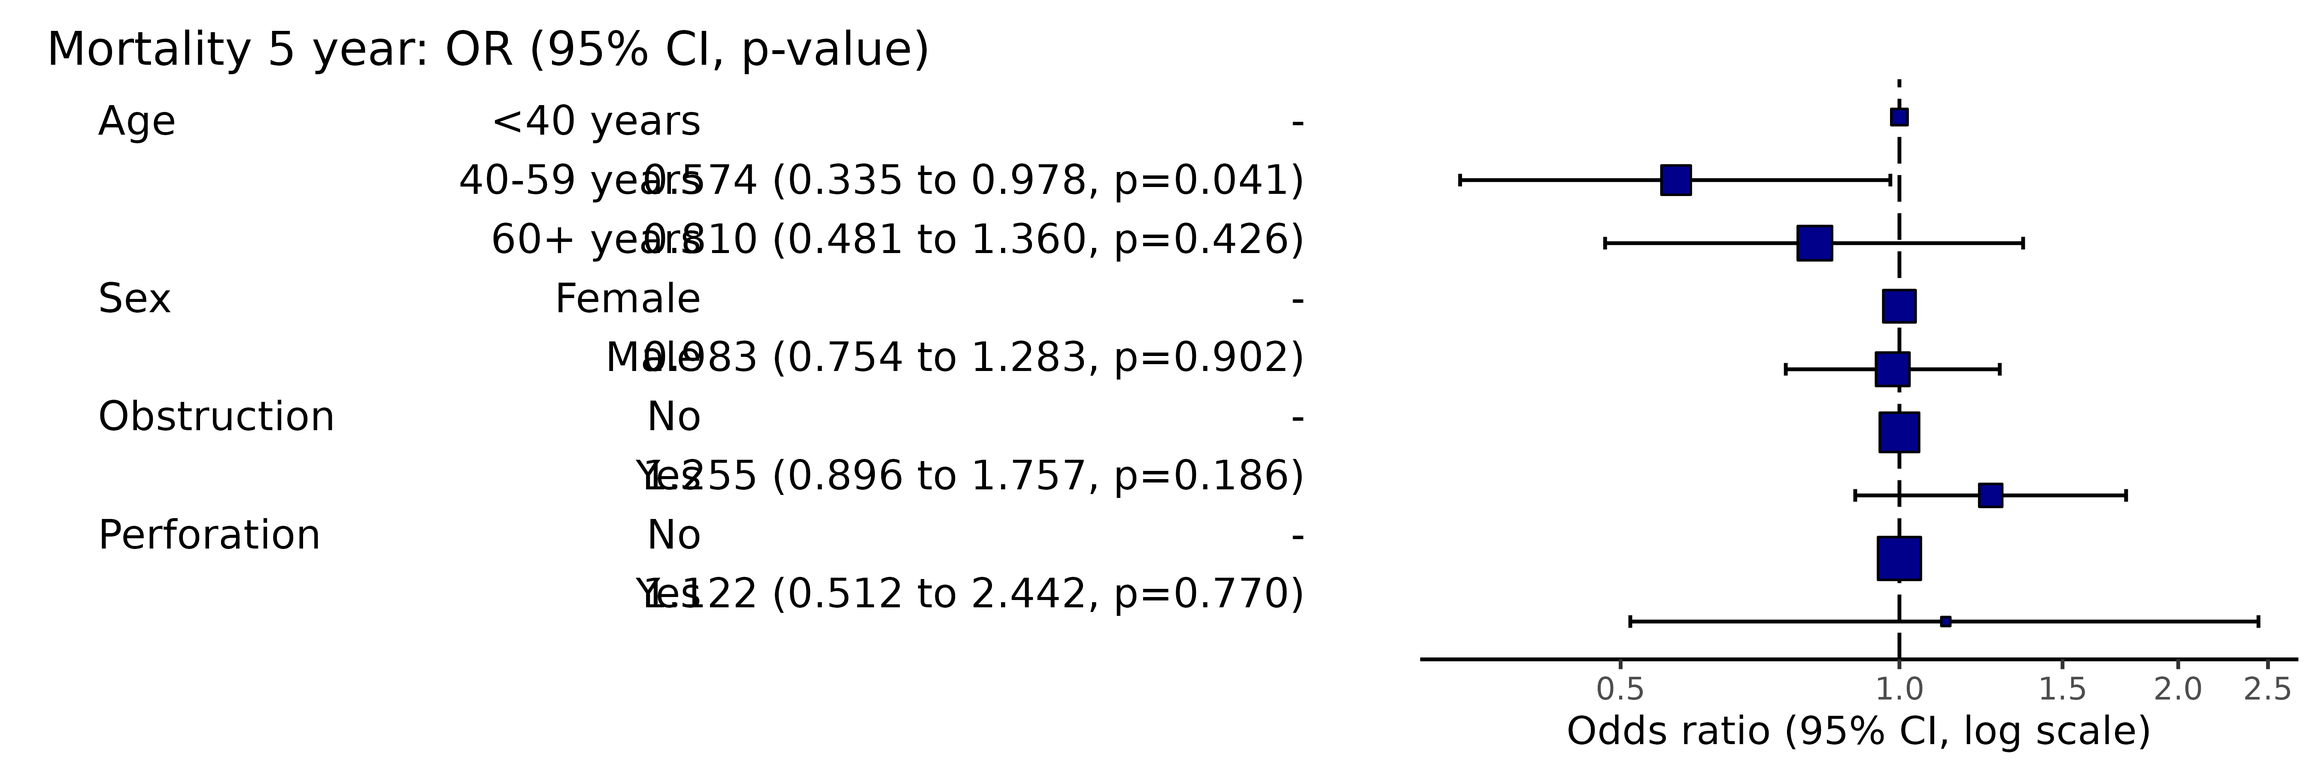
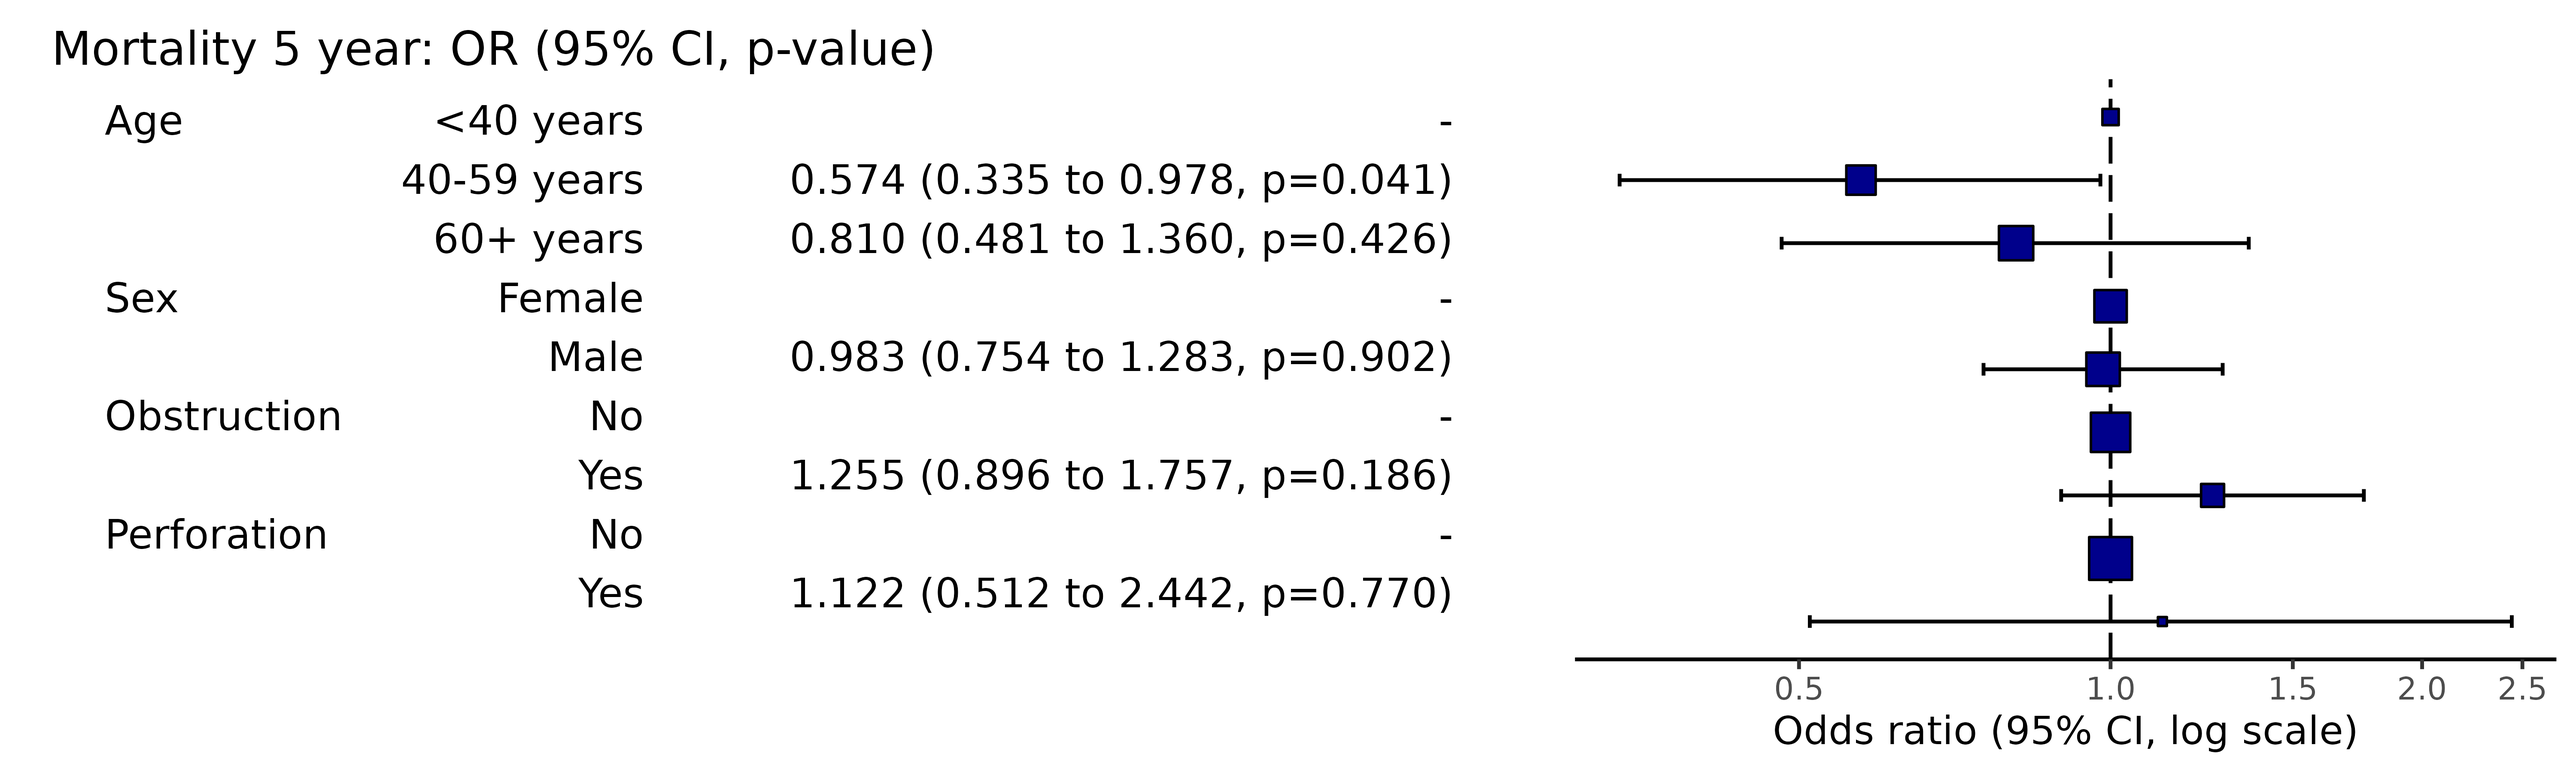
Adjust plot

diff --git a/docs/articles/all_plots_examples.html b/docs/articles/all_plots_examples.html
@@ -409,7 +409,7 @@ to plot it. Pass the model object to the plotting function.</p>
 <span class="op">)</span></code></pre></div>
 <p><img src="all_plots_examples_files/figure-html/unnamed-chunk-6-1.png" width="2700"></p>
 <pre><code><span class="co">#&gt;    user  system elapsed </span>
-<span class="co">#&gt;   0.614   0.012   0.627</span>
+<span class="co">#&gt;   0.603   0.000   0.604</span>
 <span class="co"># Note this example uses fig.height=3, fig.width=9</span></code></pre>
 </div>
 <div class="section level3">
@@ -577,10 +577,10 @@ number of decimal places, confidence interval separator etc.</p>
 <span class="va">dependent</span> <span class="op">=</span> <span class="st">'mort_5yr'</span>
 <span class="va">colon_s</span> <span class="op"><a href="../reference/pipe.html">%&gt;%</a></span>
   <span class="fu"><a href="../reference/or_plot.html">or_plot</a></span><span class="op">(</span><span class="va">dependent</span>, <span class="va">explanatory</span>,
-                digits <span class="op">=</span> <span class="fu"><a href="https://rdrr.io/r/base/c.html" class="external-link">c</a></span><span class="op">(</span><span class="fl">3</span>,<span class="fl">3</span>,<span class="fl">3</span><span class="op">)</span>, confint_sep <span class="op">=</span> <span class="st">" to "</span><span class="op">)</span></code></pre></div>
-<p><img src="all_plots_examples_files/figure-html/unnamed-chunk-17-1.png" width="2700"></p>
+                digits <span class="op">=</span> <span class="fu"><a href="https://rdrr.io/r/base/c.html" class="external-link">c</a></span><span class="op">(</span><span class="fl">3</span>,<span class="fl">3</span>,<span class="fl">3</span><span class="op">)</span>, confint_sep <span class="op">=</span> <span class="st">" to "</span>, column_space <span class="op">=</span> <span class="fu"><a href="https://rdrr.io/r/base/c.html" class="external-link">c</a></span><span class="op">(</span><span class="op">-</span><span class="fl">0.5</span>, <span class="op">-</span><span class="fl">0.1</span>, <span class="fl">0.5</span><span class="op">)</span><span class="op">)</span></code></pre></div>
+<p><img src="all_plots_examples_files/figure-html/unnamed-chunk-17-1.png" width="3000"></p>
 <div class="sourceCode" id="cb32"><pre class="downlit sourceCode r">
-<code class="sourceCode R"><span class="co"># Note this example uses fig.height=3, fig.width=9</span></code></pre></div>
+<code class="sourceCode R"><span class="co"># Note this example uses fig.height=3, fig.width=10</span></code></pre></div>
 </div>
 </div>
 <div class="section level2">
